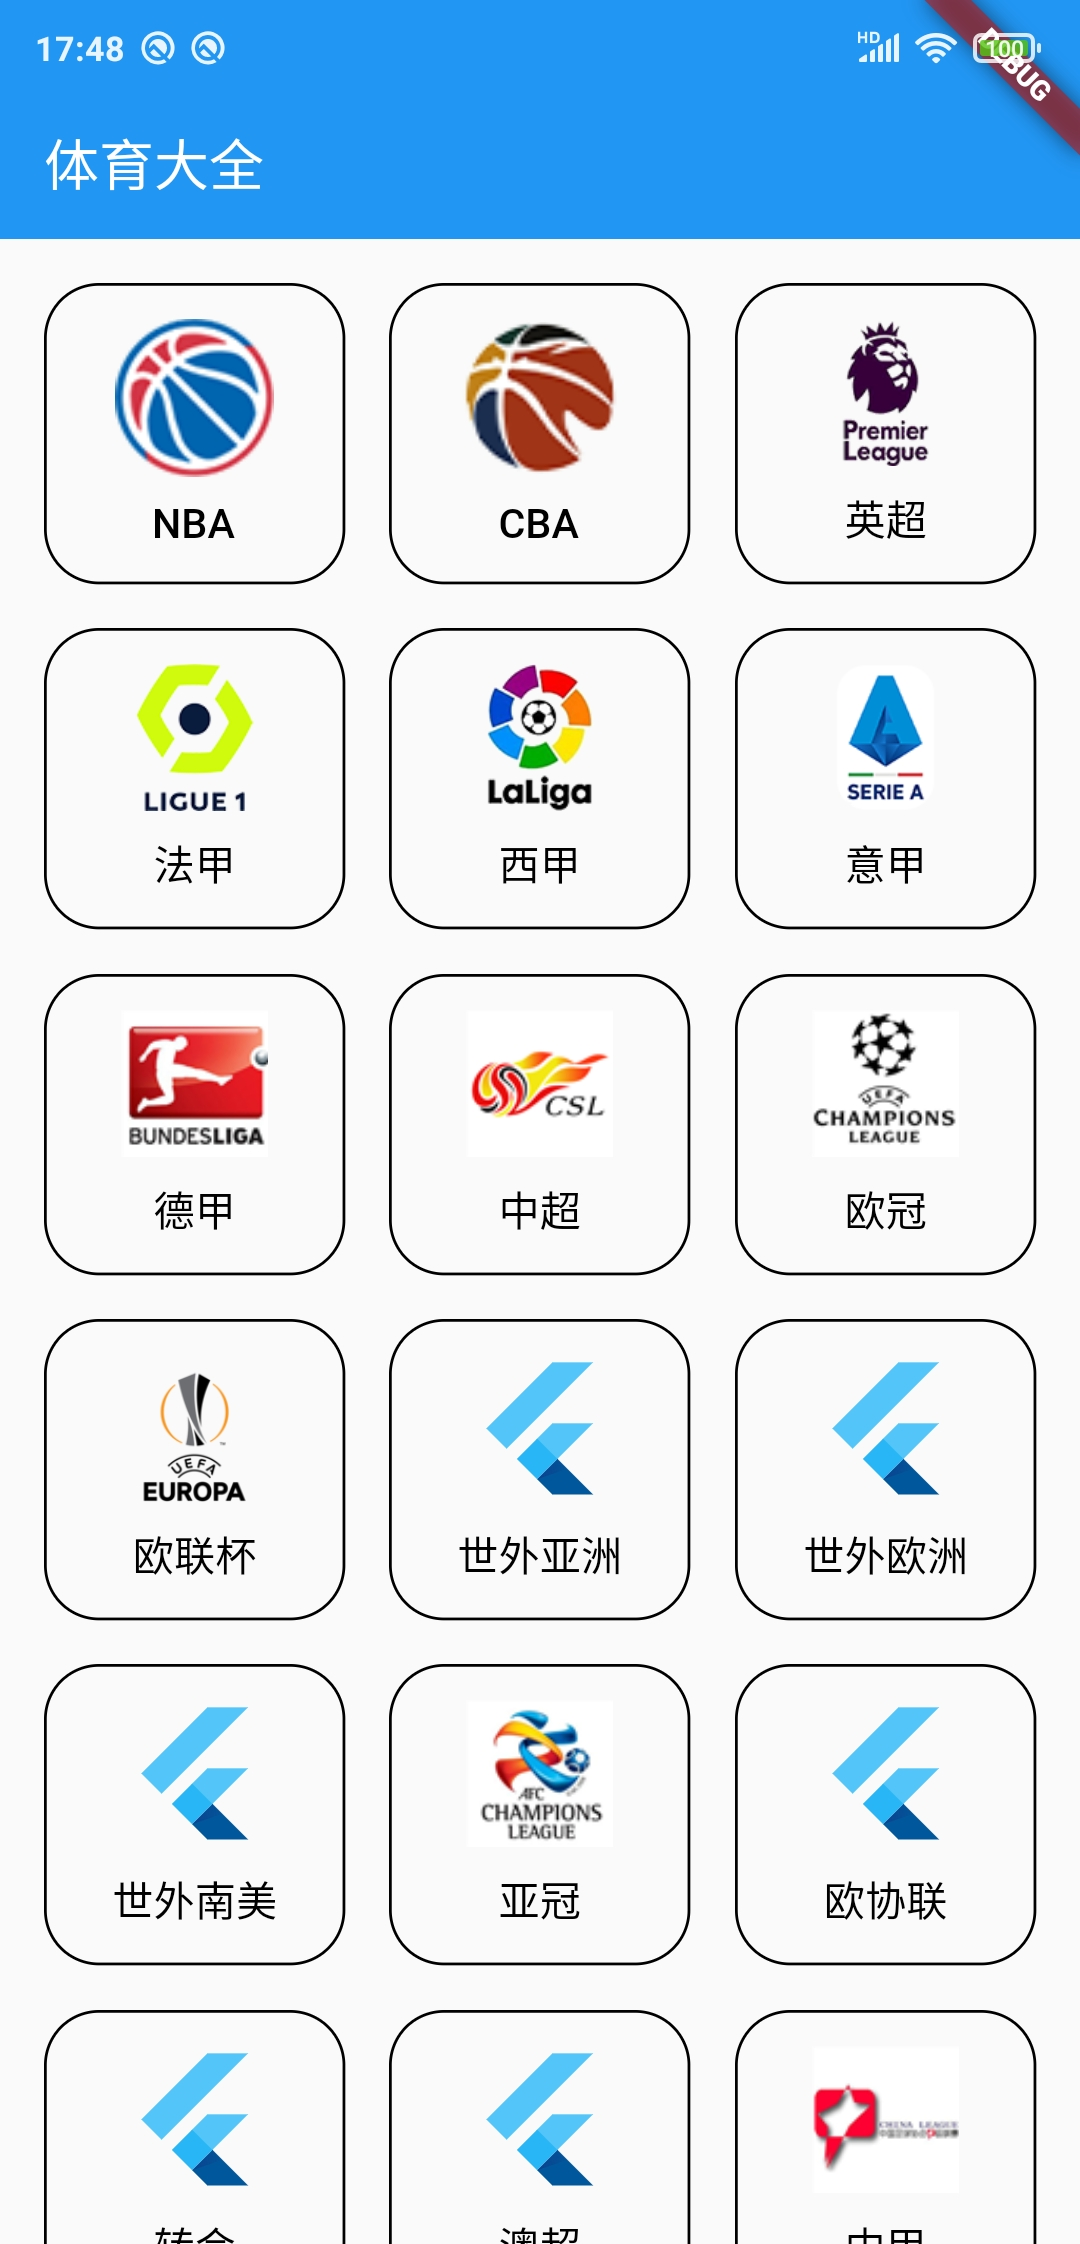
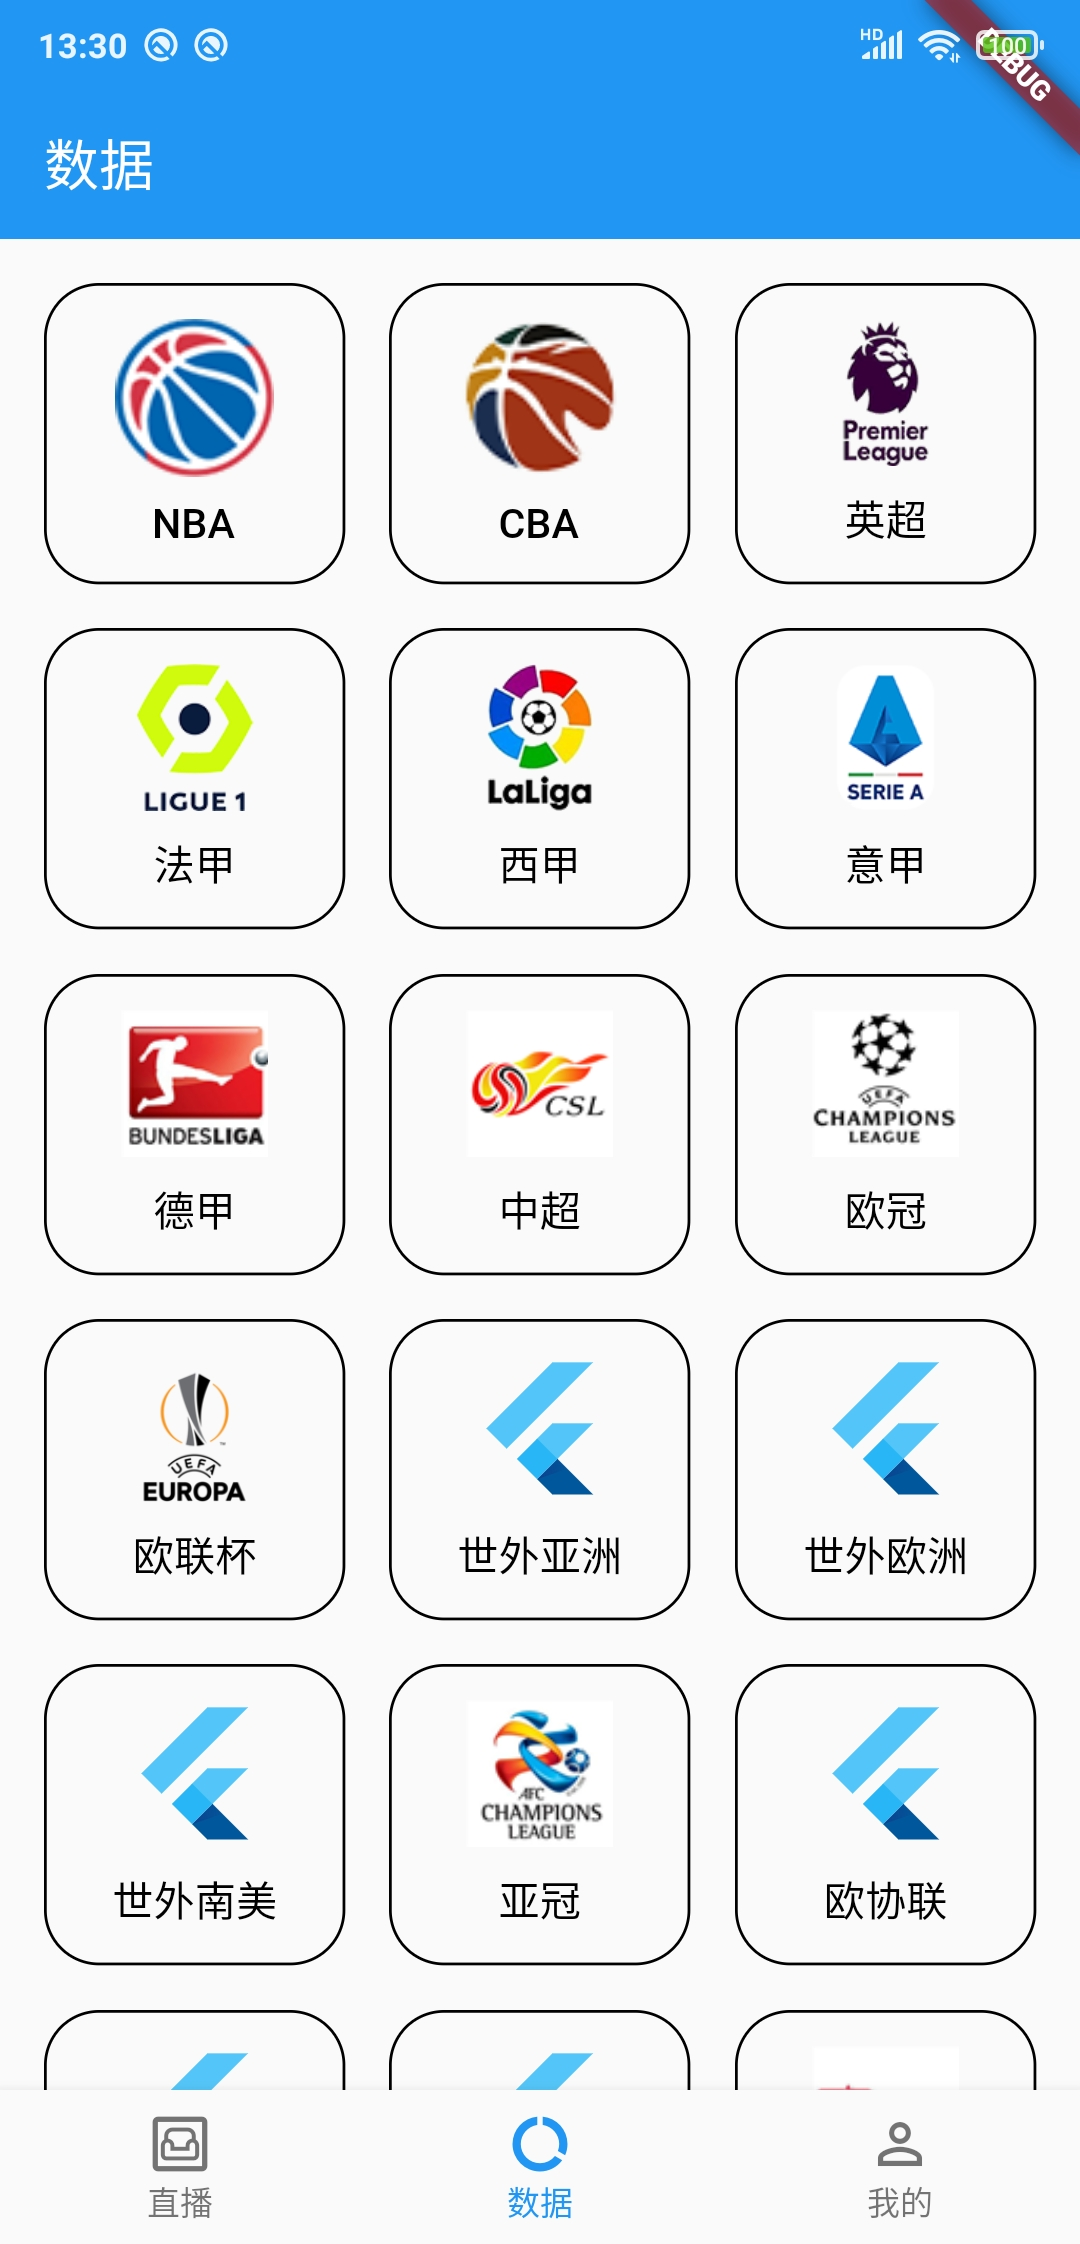
修改主页

diff --git a/lib/features/home/pages/home_page.dart b/lib/features/home/pages/home_page.dart
@@ -1,55 +1,63 @@
 import 'package:flutter/material.dart';
-import 'package:flutter_bloc/flutter_bloc.dart';
-import 'package:flutter_gen/gen_l10n/app_localizations.dart';
-import 'package:sports_complete/features/home/blocs/leagues/leagues_cubit.dart';
-import 'package:sports_complete/features/home/repositories/leagues_repository.dart';
-import 'package:sports_complete/features/home/widgets/widgets.dart';
-import 'package:sports_complete/services/server_api.dart';
-import 'package:sports_complete/utils/utils.dart';
-import 'package:sports_complete/widgets/widgets.dart';
+import 'package:sports_complete/features/data/pages/data_page.dart';
+import 'package:sports_complete/features/live_games/pages/live_games_page.dart';
+import 'package:sports_complete/features/settings/pages/setttings_page.dart';
 
-class HomePage extends StatelessWidget {
+class HomePage extends StatefulWidget {
   const HomePage({Key? key}) : super(key: key);
 
   @override
+  State<HomePage> createState() => _HomePageState();
+}
+
+class _HomePageState extends State<HomePage> {
+  int _currentIndex = 0;
+  final _pageController = PageController();
+
+  @override
   Widget build(BuildContext context) {
-    return BlocProvider(
-      create: (context) => LeaguesCubit(
-        repository: LeaguesRepository(serverApi: context.read<ServerApi>()),
-      )..fetch(),
-      child: Scaffold(
-        appBar: AppBar(
-          title: Text(AppLocalizations.of(context)!.appTitle),
-          actions: const [SettingIcon()],
-        ),
-        body: BlocConsumer<LeaguesCubit, LeaguesState>(
-          listener: (context, state) {
-            if (state is LeaguesLoadFailure) {
-              Toast.show(state.message);
-            }
-          },
-          builder: (context, state) {
-            if (state is LeaguesLoadSuccess) {
-              return GridView.count(
-                crossAxisCount: 3,
-                crossAxisSpacing: 16,
-                mainAxisSpacing: 16,
-                padding: const EdgeInsets.all(16),
-                children: state.leagues.map((e) => LeagueItem(e)).toList(),
-              );
-            }
-            if (state is LeaguesLoadInProgress) {
-              return const Loading();
-            }
-            if (state is LeaguesLoadFailure) {
-              return ErrorRetry(
-                onRetry: () => context.read<LeaguesCubit>().fetch(),
-              );
-            }
-            return Container();
-          },
-        ),
+    return Scaffold(
+      bottomNavigationBar: BottomNavigationBar(
+        selectedFontSize: 12,
+        currentIndex: _currentIndex,
+        type: BottomNavigationBarType.fixed,
+        onTap: (index) {
+          setState(() => _currentIndex = index);
+          _pageController.jumpToPage(_currentIndex);
+        },
+        items: const [
+          BottomNavigationBarItem(
+            icon: Icon(Icons.living_outlined),
+            activeIcon: Icon(Icons.living),
+            label: '直播',
+          ),
+          BottomNavigationBarItem(
+            icon: Icon(Icons.data_usage_outlined),
+            activeIcon: Icon(Icons.data_usage),
+            label: '数据',
+          ),
+          BottomNavigationBarItem(
+            icon: Icon(Icons.person_outline),
+            activeIcon: Icon(Icons.person),
+            label: '我的',
+          ),
+        ],
+      ),
+      body: PageView(
+        controller: _pageController,
+        physics: const NeverScrollableScrollPhysics(),
+        children: const [
+          LiveGamesPage(),
+          DataPage(),
+          SettingsPage(),
+        ],
       ),
     );
+  }
+
+  @override
+  void dispose() {
+    _pageController.dispose();
+    super.dispose();
   }
 }

diff --git a/lib/features/data/pages/data_page.dart b/lib/features/data/pages/data_page.dart
@@ -1,0 +1,64 @@
+import 'package:flutter/material.dart';
+import 'package:flutter_bloc/flutter_bloc.dart';
+import 'package:flutter_gen/gen_l10n/app_localizations.dart';
+import 'package:sports_complete/features/data/blocs/leagues/leagues_cubit.dart';
+import 'package:sports_complete/features/data/repositories/leagues_repository.dart';
+import 'package:sports_complete/features/data/widgets/widgets.dart';
+import 'package:sports_complete/services/server_api.dart';
+import 'package:sports_complete/utils/utils.dart';
+import 'package:sports_complete/widgets/widgets.dart';
+
+class DataPage extends StatefulWidget {
+  const DataPage({Key? key}) : super(key: key);
+
+  @override
+  State<DataPage> createState() => _DataPageState();
+}
+
+class _DataPageState extends State<DataPage>
+    with AutomaticKeepAliveClientMixin {
+  @override
+  Widget build(BuildContext context) {
+    super.build(context);
+    return BlocProvider(
+      create: (context) => LeaguesCubit(
+        repository: LeaguesRepository(serverApi: context.read<ServerApi>()),
+      )..fetch(),
+      child: Scaffold(
+        appBar: AppBar(
+          title: Text(AppLocalizations.of(context)!.dataPageTitle),
+        ),
+        body: BlocConsumer<LeaguesCubit, LeaguesState>(
+          listener: (context, state) {
+            if (state is LeaguesLoadFailure) {
+              Toast.show(state.message);
+            }
+          },
+          builder: (context, state) {
+            if (state is LeaguesLoadSuccess) {
+              return GridView.count(
+                crossAxisCount: 3,
+                crossAxisSpacing: 16,
+                mainAxisSpacing: 16,
+                padding: const EdgeInsets.all(16),
+                children: state.leagues.map((e) => LeagueItem(e)).toList(),
+              );
+            }
+            if (state is LeaguesLoadInProgress) {
+              return const Loading();
+            }
+            if (state is LeaguesLoadFailure) {
+              return ErrorRetry(
+                onRetry: () => context.read<LeaguesCubit>().fetch(),
+              );
+            }
+            return Container();
+          },
+        ),
+      ),
+    );
+  }
+
+  @override
+  bool get wantKeepAlive => true;
+}

diff --git a/lib/features/live_games/pages/live_games_page.dart b/lib/features/live_games/pages/live_games_page.dart
@@ -1,0 +1,24 @@
+import 'package:flutter/material.dart';
+import 'package:flutter_gen/gen_l10n/app_localizations.dart';
+
+class LiveGamesPage extends StatefulWidget {
+  const LiveGamesPage({Key? key}) : super(key: key);
+
+  @override
+  State<LiveGamesPage> createState() => _LiveGamesPageState();
+}
+
+class _LiveGamesPageState extends State<LiveGamesPage>
+    with AutomaticKeepAliveClientMixin {
+  @override
+  Widget build(BuildContext context) {
+    super.build(context);
+    return Scaffold(
+      appBar: AppBar(title: Text(AppLocalizations.of(context)!.liveGames)),
+      body: const Center(child: Text('Comming soon')),
+    );
+  }
+
+  @override
+  bool get wantKeepAlive => true;
+}

diff --git a/lib/features/data/blocs/leagues/leagues_cubit.dart b/lib/features/data/blocs/leagues/leagues_cubit.dart
@@ -1,8 +1,8 @@
 import 'package:bloc/bloc.dart';
 import 'package:equatable/equatable.dart';
 import 'package:sports_complete/entities/api_exception.dart';
-import 'package:sports_complete/features/home/entities/entities.dart';
-import 'package:sports_complete/features/home/repositories/leagues_repository.dart';
+import 'package:sports_complete/features/data/entities/entities.dart';
+import 'package:sports_complete/features/data/repositories/leagues_repository.dart';
 
 part 'leagues_state.dart';
 

diff --git a/lib/features/league/pages/league_page.dart b/lib/features/league/pages/league_page.dart
@@ -1,7 +1,7 @@
 import 'package:flutter/material.dart';
+import 'package:sports_complete/features/data/entities/entities.dart';
 import 'package:sports_complete/features/fifa/entities/entities.dart';
 import 'package:sports_complete/features/fifa/pages/fifa_page.dart';
-import 'package:sports_complete/features/home/entities/entities.dart';
 import 'package:sports_complete/features/schedule/pages/schedule_page.dart';
 
 class LeaguePage extends StatelessWidget {

diff --git a/lib/features/data/widgets/league_item.dart b/lib/features/data/widgets/league_item.dart
@@ -1,6 +1,6 @@
 import 'package:cached_network_image/cached_network_image.dart';
 import 'package:flutter/material.dart';
-import 'package:sports_complete/features/home/entities/entities.dart';
+import 'package:sports_complete/features/data/entities/entities.dart';
 import 'package:sports_complete/features/league/pages/league_page.dart';
 
 class LeagueItem extends StatelessWidget {

diff --git a/lib/features/data/repositories/leagues_repository.dart b/lib/features/data/repositories/leagues_repository.dart
@@ -1,4 +1,4 @@
-import 'package:sports_complete/features/home/entities/league.dart';
+import 'package:sports_complete/features/data/entities/entities.dart';
 import 'package:sports_complete/services/server_api.dart';
 
 class LeaguesRepository {

diff --git a/lib/services/dtos/leagues_dto.dart b/lib/services/dtos/leagues_dto.dart
@@ -1,4 +1,4 @@
-import 'package:sports_complete/features/home/entities/entities.dart';
+import 'package:sports_complete/features/data/entities/entities.dart';
 
 class LeaguesDto {
   List<LeagueDto>? league;
